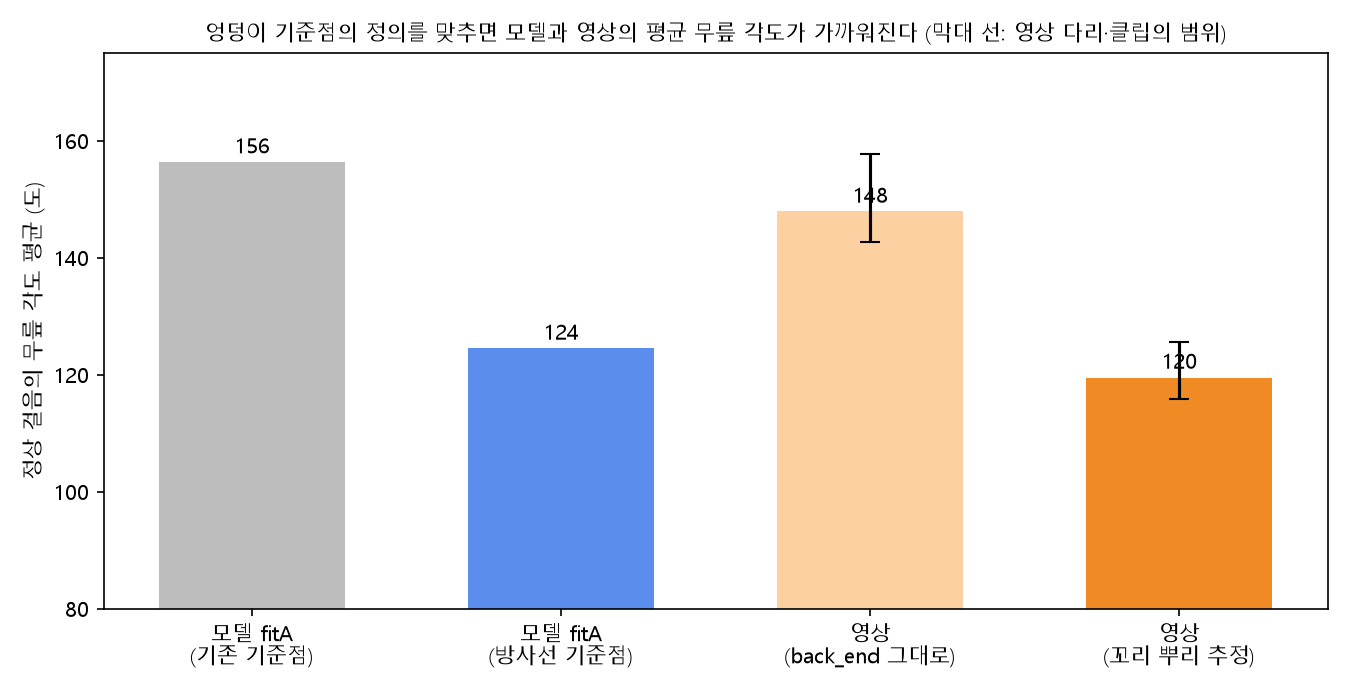
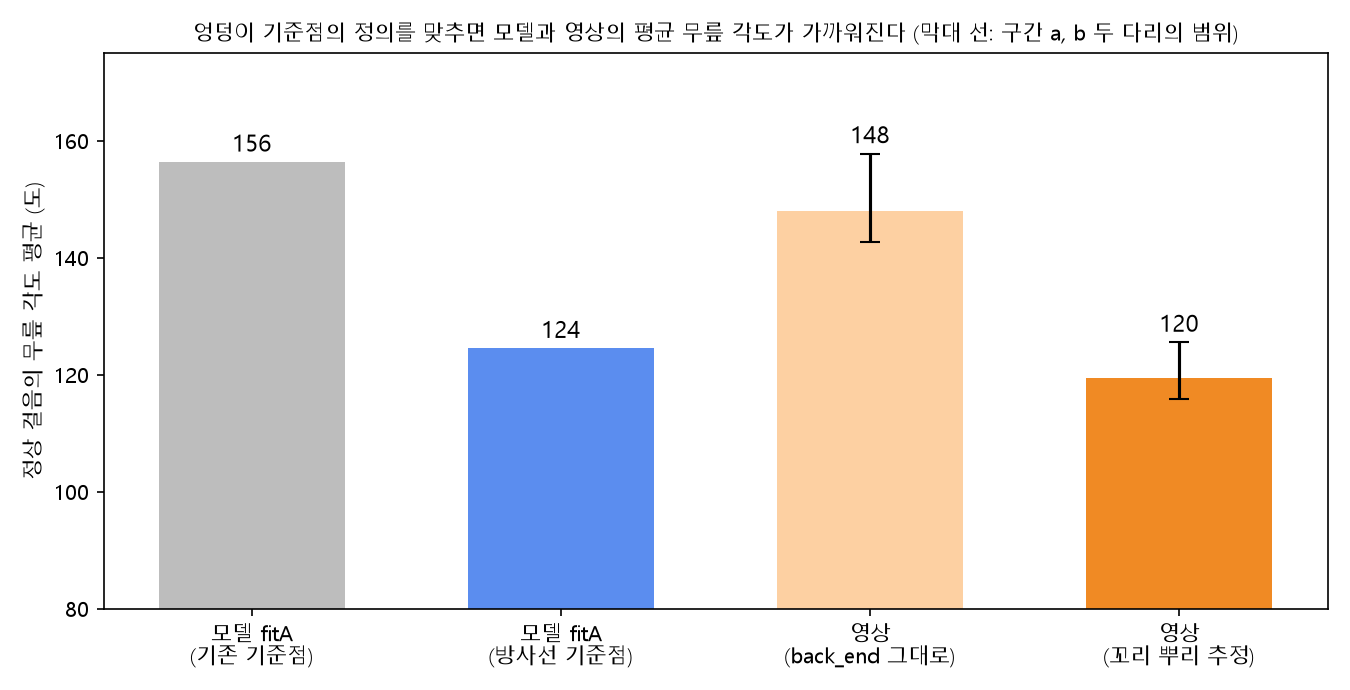
Add final thesis figures (v30) and update gallery

diff --git a/analysis/make_thesis_figures.py b/analysis/make_thesis_figures.py
@@ -70,7 +70,7 @@ if on("F03"):
             if not v: continue
             X, Y = (v[0] - m["x0"]) * m["z"], (v[1] - m["y0"]) * m["z"]; col = "#2ca02c" if k in ("tail", "hip") else ("#d62728" if k.startswith("n") else "#1f77b4")
             a_.plot(X, Y, "o", mfc="none", mec=col, ms=9, mew=2); a_.text(X + 8, Y - 8, names[k], color="white", fontsize=7.5, bbox=dict(fc=col, ec="none", pad=1))
-        a_.set_title(f"{'학습용 클립 a' if i[0] == 'a' else '시험용 클립 b'}, 프레임 {i[2:]}", fontsize=10)
+        a_.set_title(f"{'보정용 구간 a' if i[0] == 'a' else '시험용 구간 b'}, 프레임 {i[2:]}", fontsize=10)
     plt.tight_layout(); plt.savefig(f"{OUT}/F03_marks_examples.png", dpi=150); plt.close(); print("F03")
 
 if on("F04"):
@@ -80,16 +80,16 @@ if on("F04"):
     for k, (m, lab, col) in enumerate((("hrnet_w32", "hrnet_w32", "#9ecae1"), ("resnet_50", "resnet_50", "#6baed6"), ("fused", "합친 추적", "#08519c"))):
         v = G[m].values; ax.bar(np.arange(3) + (k - 1) * w, v, w, label=lab, color=col)
         for i, t in enumerate(v): ax.text(i + (k - 1) * w, t + 1, f"{t:.0f}", ha="center", fontsize=8)
-    ax.set_xticks(range(3)); ax.set_xticklabels(["발", "뒤꿈치", "무릎"]); ax.set_ylabel("위치 오차 (정강이 길이의 %)"); ax.set_title("표시한 점 대비 추적 오차 (시험용 클립 b, 중앙값)"); ax.legend(); plt.tight_layout(); plt.savefig(f"{OUT}/F04_tracking_error.png", dpi=150); plt.close(); print("F04")
+    ax.set_xticks(range(3)); ax.set_xticklabels(["발", "뒤꿈치", "무릎"]); ax.set_ylabel("위치 오차 (정강이 길이의 %)"); ax.set_title("표시한 점 대비 추적 오차 (시험용 구간 b, 중앙값)"); ax.legend(); plt.tight_layout(); plt.savefig(f"{OUT}/F04_tracking_error.png", dpi=150); plt.close(); print("F04")
 
 if on("F05"):
     A = pd.read_csv("results/ident_results/V_convert_angles.csv"); A = A[A.model == "fused"]
     fig, axs = plt.subplots(1, 2, figsize=(10, 4.4))
     for a_, (j, nm) in zip(axs, (("stif", "무릎"), ("hock", "뒤꿈치(비절)"))):
-        for cl, col, lab in (("a", "#bbbbbb", "클립 a (학습용)"), ("b", "#d62728", "클립 b (시험용)")):
+        for cl, col, lab in (("a", "#bbbbbb", "구간 a (보정용)"), ("b", "#d62728", "구간 b (시험용)")):
             g = A[A["clip"] == cl]; a_.scatter(g[f"truth_{j}_conv"], g[f"track_{j}"], s=22, color=col, label=lab)
         gb = A[A["clip"] == "b"]; r = np.corrcoef(gb[f"track_{j}"], gb[f"truth_{j}_conv"])[0, 1]; lo, hi = 60, 180; a_.plot([lo, hi], [lo, hi], "k--", lw=0.8); a_.set_xlim(lo, hi); a_.set_ylim(lo, hi)
-        a_.set_xlabel(f"표시한 점(관절 중심 환산)의 {nm} 각도 (도)"); a_.set_ylabel("추적한 각도 (도)"); a_.set_title(f"{nm}: 시험용 클립 b 상관 {r:.2f}"); a_.legend(fontsize=8)
+        a_.set_xlabel(f"표시한 점(관절 중심 환산)의 {nm} 각도 (도)"); a_.set_ylabel("추적한 각도 (도)"); a_.set_title(f"{nm}: 시험용 구간 b 상관 {r:.2f}"); a_.legend(fontsize=8)
     plt.tight_layout(); plt.savefig(f"{OUT}/F05_track_vs_marked_angle.png", dpi=150); plt.close(); print("F05")
 
 if on("F06"):
@@ -114,9 +114,10 @@ if on("F07"):
     vid = W[W.source.str.startswith("video") & (W.rump == "tail_est(c_fit)")]; vb = W[W.source.str.startswith("video") & (W.rump == "back_end")]
     labs.append("영상\n(back_end 그대로)"); vals.append(float(vb.stif_mean.mean())); cols.append("#fdd0a2"); labs.append("영상\n(꼬리 뿌리 추정)"); vals.append(float(vid.stif_mean.mean())); cols.append("#f08a24")
     ax.bar(labs, vals, color=cols, width=0.6)
-    for i, v in enumerate(vals): ax.text(i, v + 1.5, f"{v:.0f}", ha="center", fontsize=10)
+    tops = {2: float(vb.stif_mean.max()), 3: float(vid.stif_mean.max())}
+    for i, v in enumerate(vals): ax.text(i, max(v, tops.get(i, v)) + 1.8, f"{v:.0f}", ha="center", fontsize=11)
     ax.errorbar([3], [vid.stif_mean.mean()], yerr=[[vid.stif_mean.mean() - vid.stif_mean.min()], [vid.stif_mean.max() - vid.stif_mean.mean()]], color="k", capsize=5); ax.errorbar([2], [vb.stif_mean.mean()], yerr=[[vb.stif_mean.mean() - vb.stif_mean.min()], [vb.stif_mean.max() - vb.stif_mean.mean()]], color="k", capsize=5)
-    ax.set_ylim(80, 175); ax.set_ylabel("정상 걸음의 무릎 각도 평균 (도)"); ax.set_title("엉덩이 기준점의 정의를 맞추면 모델과 영상의 평균 무릎 각도가 가까워진다 (막대 선: 영상 다리·클립의 범위)"); ax.title.set_fontsize(10); plt.tight_layout(); plt.savefig(f"{OUT}/F07_rump_definition.png", dpi=150); plt.close(); print("F07")
+    ax.set_ylim(80, 175); ax.set_ylabel("정상 걸음의 무릎 각도 평균 (도)"); ax.set_title("엉덩이 기준점의 정의를 맞추면 모델과 영상의 평균 무릎 각도가 가까워진다 (막대 선: 구간 a, b 두 다리의 범위)"); ax.title.set_fontsize(10); plt.tight_layout(); plt.savefig(f"{OUT}/F07_rump_definition.png", dpi=150); plt.close(); print("F07")
 
 if on("F08"):
     tags = ["a", "b", "l2a", "l2b", "t7725"]; lab = {"a": "클립 a", "b": "클립 b", "l2a": "이전 촬영 1", "l2b": "이전 촬영 2", "t7725": "IMG_7725"}

diff --git a/docs/PRESENTATION.md b/docs/PRESENTATION.md
@@ -45,45 +45,31 @@ git clone https://github.com/wri0raan/canine-patella-sim
 
 [LEO3_analysis_n1](../results/videos/LEO3_analysis_n1.mp4) · [n2](../results/videos/LEO3_analysis_n2.mp4) · [n3](../results/videos/LEO3_analysis_n3.mp4) · [n4](../results/videos/LEO3_analysis_n4.mp4) · [n5](../results/videos/LEO3_analysis_n5.mp4) (추적선과 판정을 입힌 새 영상 5개) · [L1_leo_analysis_overlay](../results/videos/L1_leo_analysis_overlay.mp4)
 
-## 6. 논문 그림
+## 6. 논문 최종본(v30) 그림 1~21
 
-### 연구 흐름과 추적
-![연구의 전체 과정](../results/figures/thesis/F01_pipeline.png)
-![좌우 다리 이름 뒤바뀜과 이어 붙이기](../results/figures/thesis/F02_identity_fix_large.png)
-![보호자가 직접 표시한 점의 예](../results/figures/thesis/F03_marks_examples.png)
-![표시한 점에 대한 추적 오차](../results/figures/thesis/F04_tracking_error.png)
-![추적한 각도와 표시한 점의 각도](../results/figures/thesis/F05_track_vs_marked_angle.png)
-![엉덩이 기준점의 정의와 평균 무릎 각도](../results/figures/thesis/F07_rump_definition.png)
+논문 최종본에 실린 그림을 번호 순서대로 모았습니다(`results/figures/thesis_final/`). 캡션은 첫 문장만 적었고, 전체 설명은 논문을 보시면 됩니다. 그림 10은 방사선 사진이 들어 있습니다.
 
-### 임상 기준과 모델
-![임상 무릎 각도](../results/figures/thesis/F23_clinical_angles.png)
-![기계적 한계와 기능적 한계](../results/figures/thesis/F22_limits.png)
-![뼈대와 피부 모델](../results/figures/thesis/F26_skeleton_skin.png)
-![등급별 무릎 각도 범위, 비절과 고관절 가동범위](../results/figures/thesis/F25_grades_ko.png)
-![모델이 만든 정상, 2기, 3기 걸음의 무릎 각도](../results/figures/thesis/F09_model_grades.png)
-![모델의 정상, 2기, 3기 걸음 장면](../results/figures/thesis/F10_model_snapshots.png)
-
-### 보더콜리 최종 모델
-![보더콜리 최종 모델 장면](../results/figures/thesis/F17_bc_snapshots.png)
-![보더콜리 모델 위의 뒷다리 뼈 도식](../results/figures/thesis/F20_bc_bones.png)
-![한 걸음 안의 무릎 각도](../results/figures/thesis/F21_bc_grades_strip.png)
-
-### 방사선 사진 (소유자 본인 촬영, 사용자 동의로 공개)
-![방사선 기준점 오프셋: 뒤꿈치뼈 끝, 무릎뼈 앞면](../results/figures/thesis/F06_xray_offsets.png)
-![정면 방사선 사진 위의 뼈 이름 도식](../results/figures/thesis/F18_xray_VD_bones.png)
-![측면 방사선 사진 위의 뼈 이름, 관절 중심, 무릎 각도의 정의](../results/figures/thesis/F19_xray_lateral_bones.png)
-![방사선 사진 위의 고관절, 무릎, 비절 각도](../results/figures/thesis/F24_xray_angles.png)
-
-### 판정
-![판정 검사 영상 5구간의 평균 무릎 각도와 모델의 등급별 예측](../results/figures/thesis/F27_judge_summary_ko.png)
-![판정 영상의 한 장면](../results/figures/thesis/F28_judge_frame_ko.png)
-
-### 판정에 쓴 영상의 장면
-![IMG_7726 구간 a](../results/figures/thesis/F11_scenes_a.png)
-![IMG_7726 구간 b](../results/figures/thesis/F12_scenes_b.png)
-![이전 촬영 구간 1](../results/figures/thesis/F13_scenes_l2a.png)
-![이전 촬영 구간 2](../results/figures/thesis/F14_scenes_l2b.png)
-![IMG_7725](../results/figures/thesis/F15_scenes_t7725.png)
+![그림 1. 연구의 전체 과정.](../results/figures/thesis_final/Fig01_overview.png)
+![그림 2. 임상 논문이 측정한 세 관절(고관절, 무릎, 비절)의 각도 위치.](../results/figures/thesis_final/Fig02_clinical_joint_angles.png)
+![그림 3. 무릎 신전 한계.](../results/figures/thesis_final/Fig03_knee_extension_limits.png)
+![그림 4. 등급별 무릎 각도 범위(a), 비절 가동범위(b), 고관절 가동범위(c).](../results/figures/thesis_final/Fig04_grades_knee_hock_hip.png)
+![그림 5. (a) 물리 모델의 뼈대, (b) 같은 모델에 피부를 입힌 모습.](../results/figures/thesis_final/Fig05_skeleton_and_skin.png)
+![그림 6. 두 뒷다리의 좌우 이름 뒤바뀜과 동적 계획법에 의한 이어 붙이기(구간 a, 프레임 205, 222, 240, 258).](../results/figures/thesis_final/Fig06_leg_identity_fix.png)
+![그림 7. 직접 표시한 점의 예(보정용 구간 a 두 장, 시험용 구간 b 두 장).](../results/figures/thesis_final/Fig07_hand_marked_points.png)
+![그림 8. 표시한 점에 대한 추적의 위치 오차(시험용 구간 b, 중앙값, 정강이 길이의 %).](../results/figures/thesis_final/Fig08_tracking_error.png)
+![그림 9. 추적한 각도와 표시한 점(관절 중심으로 환산)의 각도.](../results/figures/thesis_final/Fig09_tracked_vs_marked_angle.png)
+![그림 10. Raeo 방사선 사진(왼쪽과 오른쪽 뒷다리 측면)에서 읽은 피부 표식과 관절 중심의 차이.](../results/figures/thesis_final/Fig10_radiograph_offsets.png)
+![그림 11. 엉덩이 표식을 꼬리 쪽으로 옮겼을 때 모델의 무릎 각도 평균(왼쪽)과 정상 대비 변화(오른쪽).](../results/figures/thesis_final/Fig11_rump_marker_sensitivity.png)
+![그림 12. 엉덩이 기준점의 정의와 정상 걸음의 평균 무릎 각도.](../results/figures/thesis_final/Fig12_rump_definition.png)
+![그림 13. 정상 걸음의 관절 각도 가동범위.](../results/figures/thesis_final/Fig13_rom_refit.png)
+![그림 14. 모델(fitR3)이 만든 정상, 2기, 3기 걸음의 무릎 각도(방사선 기준점, 14초 중 2~6초).](../results/figures/thesis_final/Fig14_model_grades_knee_angle.png)
+![그림 15. 판정 검사 영상 5구간의 평균 무릎 각도(점)와 모델의 등급별 예측(점선), 판정 폭(띠, ±6.1도).](../results/figures/thesis_final/Fig15_judge_summary.png)
+![그림 16. 판정 영상의 한 장면(검사 영상 5).](../results/figures/thesis_final/Fig16_judge_video_frame.png)
+![그림 17. 검사 영상 1.](../results/figures/thesis_final/Fig17_test_clip_1.png)
+![그림 18. 검사 영상 2.](../results/figures/thesis_final/Fig18_test_clip_2.png)
+![그림 19. 검사 영상 3.](../results/figures/thesis_final/Fig19_test_clip_3.png)
+![그림 20. 검사 영상 4.](../results/figures/thesis_final/Fig20_test_clip_4.png)
+![그림 21. 검사 영상 5.](../results/figures/thesis_final/Fig21_test_clip_5.png)
 
 ## 7. 그 밖의 결과 그림
 
@@ -96,9 +82,11 @@ git clone https://github.com/wri0raan/canine-patella-sim
 
 ## 8. 한계 (발표 때 말할 점)
 
+- 한 마리의 개와 가상의 비정상 사례에 근거한 가능성의 확인이며 진단을 대신하지 않습니다.
 - 임상 실측은 정상과 3기뿐이고 1, 2, 4기는 추정 입력입니다.
-- 모델 무릎 가동범위(38도)와 속도(0.69 m/s)는 영상(약 54~56도, 0.8 m/s)보다 작습니다.
-- 정상과 2기는 가르지 못하고, 경증(정상~2기) 대 중증(3기 이상)만 구분합니다.
-- 중증 판정은 모델 변화량을 영상에 더한 준합성 검사입니다.
+- 모델의 무릎 움직임 폭(38도)은 영상(약 53~56도)보다 작고, 속도도 0.69 m/s로 목표 0.80 m/s에 못 미쳤습니다.
+- 정상과 2기는 가르지 못하고, 경증(정상~2기) 대 중증(3기 이상)만 구분합니다(0.87, 정상 기준 영상을 함께 쓰면 1.00).
+- 중증은 정상 영상에 모델의 변화량을 더한 가상 사례로 시험했습니다.
+- 속도, 걸음 주기, 보폭만으로는 무릎 상태를 식별할 수 없었고, 근력과 체중도 식별되지 않았습니다.
 - 뼈 이름 도식은 눈으로 읽은 모식도라 수의사 확인을 권장합니다.
 - 원본 촬영 영상과 방사선 원본 파일은 공개 저장소에 올리지 않았습니다.

diff --git a/README.md b/README.md
@@ -70,14 +70,14 @@ A mismatch with clinical data is treated as a result, not a failure.
 
 The thesis then uses the model the other way round: **compare a walking video of the dog with the physics-model dog and judge the knee status.**
 
-- **Final model (fitR3)** — refit with clinical joint-window targets; speed (0.80 m/s) and stride frequency (2.2 Hz) come from video only. Its knee range of motion (38°) and speed (0.69 m/s) are still smaller than the video (about 54–56°, 0.8 m/s); this is kept as a limitation.
+- **Final model (fitR3)** — refit with clinical joint-window targets; speed (0.80 m/s) and stride frequency (2.2 Hz) come from video only. Its knee range of motion (38°) and speed (0.69 m/s) are still smaller than the video (about 53–56°, 0.8 m/s); this is kept as a limitation.
 - **Model prediction** — mean knee angle: normal 125.4°, Grade 2 −6.3°, Grade 3 −21.9° (H2, functional limit).
 - **Judge** — the knee angle measured in the video (same landmark definition as the model; the rump point comes from a radiograph) is compared with the model's per-grade prediction.
 - **Result on 5 test clips** — model only: per-class hit rate normal 0.40 / Grade 2 0.60 / Grade 3 1.00; **mild (normal–Grade 2) vs. severe (Grade ≥ 3): 0.87**, 1.00 when healthy baseline clips of the same dog are added.
-- **Limits** — normal and Grade 2 cannot be separated; severe cases were tested only semi-synthetically (the model's change added to real healthy video); one normal clip (IMG_7725) was called abnormal by the model-only judge and normal with the baseline. Grades 1, 2 and 4 are interpolated, not measured.
+- **Limits** — normal and Grade 2 cannot be separated; severe and Grade 2 cases were tested only semi-synthetically (the model's change added to real healthy video); one normal clip (IMG_7725) was called abnormal by the model-only judge and normal with the baseline. Grades 1, 2 and 4 are interpolated, not measured.
 
 <div align="center">
-<img src="results/figures/thesis/F27_judge_summary_ko.png" width="560" alt="Mean knee angle of the test clips against the model's grade predictions" />
+<img src="results/figures/thesis_final/Fig15_judge_summary.png" width="560" alt="Mean knee angle of the test clips against the model's grade predictions" />
 <br><sub>Mean knee angle of 5 test clips (dots) and the model's predictions for normal, Grade 2 and Grade 3</sub>
 </div>
 
@@ -93,7 +93,8 @@ git clone https://github.com/wri0raan/canine-patella-sim
 |---|---|
 | **Gallery with captions and a suggested order** | **[docs/PRESENTATION.md](docs/PRESENTATION.md)** |
 | Simulation videos (54, all playable) | `results/videos/` |
-| Thesis figures | `results/figures/thesis/` |
+| Final thesis figures 1–21 | `results/figures/thesis_final/` |
+| Earlier thesis figures | `results/figures/thesis/` |
 | Other result figures | `results/figures/` |
 | Result tables | `results/*.csv`, `results/*.json` |
 
